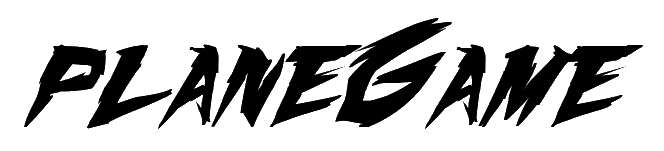
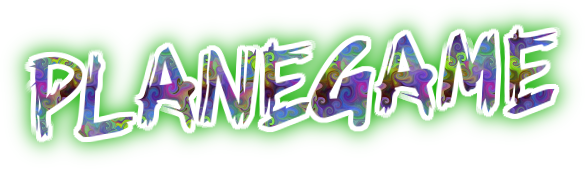
Added start and ending to the game

diff --git a/docs/js/main.js b/docs/js/main.js
@@ -1,8 +1,13 @@
-var __extends = (this && this.__extends) || function (d, b) {
-    for (var p in b) if (b.hasOwnProperty(p)) d[p] = b[p];
-    function __() { this.constructor = d; }
-    d.prototype = b === null ? Object.create(b) : (__.prototype = b.prototype, new __());
-};
+var __extends = (this && this.__extends) || (function () {
+    var extendStatics = Object.setPrototypeOf ||
+        ({ __proto__: [] } instanceof Array && function (d, b) { d.__proto__ = b; }) ||
+        function (d, b) { for (var p in b) if (b.hasOwnProperty(p)) d[p] = b[p]; };
+    return function (d, b) {
+        extendStatics(d, b);
+        function __() { this.constructor = d; }
+        d.prototype = b === null ? Object.create(b) : (__.prototype = b.prototype, new __());
+    };
+})();
 var GameObject = (function () {
     function GameObject(parent, name, width, height, x, y) {
         this.elementname = name;
@@ -26,9 +31,10 @@ var GameObject = (function () {
 var Airport = (function (_super) {
     __extends(Airport, _super);
     function Airport(name, x, y) {
-        _super.call(this, document.body, "airport", 0, 0, x, y);
-        this.stage = 0;
-        this.name = new Name(document.body, name, x + 275, y + 125);
+        var _this = _super.call(this, document.body, "airport", 0, 0, x, y) || this;
+        _this.stage = 0;
+        _this.name = new Name(document.body, name, x + 275, y + 125);
+        return _this;
     }
     Airport.prototype.upgrade = function () {
         if (this.stage != 5) {
@@ -72,9 +78,10 @@ var Airport = (function (_super) {
 var Box = (function (_super) {
     __extends(Box, _super);
     function Box(name, randomAirport) {
-        _super.call(this, document.body, "box", 49, 31, randomAirport.x + 237, randomAirport.y + 170);
-        this.randomAirport = randomAirport;
-        this.name = new Name(document.body, name, this.randomAirport.x + 250, this.randomAirport.y + 165);
+        var _this = _super.call(this, document.body, "box", 49, 31, randomAirport.x + 237, randomAirport.y + 170) || this;
+        _this.randomAirport = randomAirport;
+        _this.name = new Name(document.body, name, _this.randomAirport.x + 250, _this.randomAirport.y + 165);
+        return _this;
     }
     return Box;
 }(GameObject));
@@ -127,19 +134,25 @@ var Empty = (function () {
 }());
 var Enums;
 (function (Enums) {
+    var Keys;
     (function (Keys) {
         Keys[Keys["W"] = 87] = "W";
         Keys[Keys["A"] = 65] = "A";
         Keys[Keys["D"] = 68] = "D";
-    })(Enums.Keys || (Enums.Keys = {}));
-    var Keys = Enums.Keys;
+    })(Keys = Enums.Keys || (Enums.Keys = {}));
 })(Enums || (Enums = {}));
 var Game = (function () {
     function Game() {
         var _this = this;
         this.score = 0;
+        this.time = 60;
+        this.timeCounter = 0;
         this.airports = [];
         this.boxes = [];
+        this.scoreElement = document.createElement("score");
+        document.body.appendChild(this.scoreElement);
+        this.timeElement = document.createElement("time");
+        document.body.appendChild(this.timeElement);
         this.plane = new Plane();
         this.airports.push(new Airport("1", 2, 65));
         this.airports.push(new Airport("2", 2 + 640, 65));
@@ -161,6 +174,13 @@ var Game = (function () {
     }
     Game.prototype.gameLoop = function () {
         var _this = this;
+        this.scoreElement.innerHTML = "Score: " + this.score;
+        this.timeCounter++;
+        if (this.timeCounter >= 60) {
+            this.time--;
+            this.timeCounter = 0;
+        }
+        this.timeElement.innerHTML = "Time: " + this.time;
         this.plane.update();
         this.boxes.forEach(function (box) {
             if (Utils.collision(_this.plane, box)) {
@@ -189,7 +209,24 @@ var Game = (function () {
                 }
             }
         });
-        requestAnimationFrame(function () { return _this.gameLoop(); });
+        if (this.time <= 0) {
+            this.plane.div.remove();
+            this.boxes.forEach(function (box) {
+                box.name.div.remove();
+                box.div.remove();
+            });
+            this.airports.forEach(function (airport) {
+                airport.name.div.remove();
+                airport.div.remove();
+            });
+            this.timeElement.remove();
+            this.scoreElement.innerHTML = "Time's up!<br>" + this.scoreElement.innerHTML;
+            this.scoreElement.style.left = 'calc(100% / 2 - 100px)';
+            this.scoreElement.style.top = 'calc(100% / 2 - 50px)';
+        }
+        else {
+            requestAnimationFrame(function () { return _this.gameLoop(); });
+        }
     };
     Game.getInstance = function () {
         if (!Game.instance) {
@@ -200,39 +237,41 @@ var Game = (function () {
     return Game;
 }());
 var title;
-var button;
+var start;
 window.addEventListener("load", function () {
     title = document.createElement("title");
-    title.innerHTML = "planeGame!";
     document.body.appendChild(title);
-    button = document.createElement("button");
-    button.innerHTML = "Start!";
-    button.addEventListener("click", function () {
+    start = document.createElement("start");
+    start.addEventListener("click", function () {
         title.remove();
-        button.remove();
+        start.remove();
         Game.getInstance();
     });
-    document.body.appendChild(button);
+    document.body.appendChild(start);
+    TweenLite.to(title, 1, { x: 0, y: 250, ease: Bounce.easeOut });
+    TweenLite.to(start, 1, { x: 0, y: 500, ease: Bounce.easeOut });
 });
 var Name = (function (_super) {
     __extends(Name, _super);
     function Name(parent, name, x, y) {
-        _super.call(this, parent, "name", 20, 50, x, y);
-        this.text = name;
-        this.div.innerHTML = this.text;
+        var _this = _super.call(this, parent, "name", 20, 50, x, y) || this;
+        _this.text = name;
+        _this.div.innerHTML = _this.text;
+        return _this;
     }
     return Name;
 }(GameObject));
 var Plane = (function (_super) {
     __extends(Plane, _super);
     function Plane() {
-        _super.call(this, document.body, "plane", 39, 66, window.innerWidth / 2, window.innerHeight / 2);
-        this.speed = 5;
-        this.angle = 0;
-        this.keyState = {};
-        this.behavior = new Empty(this);
-        window.addEventListener('keydown', this.KeyDown.bind(this));
-        window.addEventListener('keyup', this.KeyUp.bind(this));
+        var _this = _super.call(this, document.body, "plane", 39, 66, window.innerWidth / 2, window.innerHeight / 2) || this;
+        _this.speed = 5;
+        _this.angle = 0;
+        _this.keyState = {};
+        _this.behavior = new Empty(_this);
+        window.addEventListener('keydown', _this.KeyDown.bind(_this));
+        window.addEventListener('keyup', _this.KeyUp.bind(_this));
+        return _this;
     }
     Plane.prototype.KeyDown = function (e) {
         this.keyState[e.keyCode || e.which] = true;

diff --git a/dev/game.ts b/dev/game.ts
@@ -2,11 +2,19 @@ class Game {
 
     private static instance: Game;
     private score: number = 0;
+    private scoreElement: HTMLElement;
+    private time: number = 60;
+    private timeCounter: number = 0;
+    private timeElement: HTMLElement;
     private plane: Plane;
     private airports: Airport[] = [];
     private boxes: Box[] = [];
 
     private constructor() {
+        this.scoreElement = document.createElement("score");
+        document.body.appendChild(this.scoreElement);
+        this.timeElement = document.createElement("time");
+        document.body.appendChild(this.timeElement);
         // Bevolk het scherm met meest efficient geplaatste vliegvelden (tile: 64x32)
         this.plane = new Plane();
         this.airports.push(new Airport("1", 2, 65));
@@ -20,15 +28,22 @@ class Game {
         this.airports.push(new Airport("9", 2 + 320, 65 + 672));
         this.airports.push(new Airport("10", 2 + 960, 65 + 672));
         let objectiveAirport = Math.floor(Math.random() * 10) + 1 + "";
-                        let spawnAirport = this.airports[Math.floor(Math.random() * this.airports.length)];
-                        while (objectiveAirport == spawnAirport.name.text) {
-                            spawnAirport = this.airports[Math.floor(Math.random() * this.airports.length)];
-                        }
-                        this.boxes.push(new Box(objectiveAirport, spawnAirport));
+        let spawnAirport = this.airports[Math.floor(Math.random() * this.airports.length)];
+        while (objectiveAirport == spawnAirport.name.text) {
+            spawnAirport = this.airports[Math.floor(Math.random() * this.airports.length)];
+        }
+        this.boxes.push(new Box(objectiveAirport, spawnAirport));
         requestAnimationFrame(() => this.gameLoop());
     }
 
     private gameLoop(): void {
+        this.scoreElement.innerHTML = "Score: " + this.score;
+        this.timeCounter++;
+        if (this.timeCounter >= 60) {
+            this.time--;
+            this.timeCounter = 0;
+        }
+        this.timeElement.innerHTML = "Time: " + this.time;
         this.plane.update();
         this.boxes.forEach(box => {
             if (Utils.collision(this.plane, box)) {
@@ -57,7 +72,23 @@ class Game {
                 }
             }
         });
-        requestAnimationFrame(() => this.gameLoop());
+        if (this.time <= 0) {
+            this.plane.div.remove();
+            this.boxes.forEach(box => {
+                box.name.div.remove();
+                box.div.remove();
+            });
+            this.airports.forEach(airport => {
+                airport.name.div.remove();
+                airport.div.remove();
+            });
+            this.timeElement.remove();
+            this.scoreElement.innerHTML = "Time's up!<br>" + this.scoreElement.innerHTML;
+            this.scoreElement.style.left = 'calc(100% / 2 - 100px)';
+            this.scoreElement.style.top = 'calc(100% / 2 - 50px)';
+        } else {
+            requestAnimationFrame(() => this.gameLoop());
+        }
     }
 
     public static getInstance(): Game {

diff --git a/docs/css/style.css b/docs/css/style.css
@@ -7,20 +7,43 @@ body {
 
 body * {
     position: absolute;
+    display: block;
     margin: 0px;
     padding: 0px;
 }
 
 title {
-    width:664px;
-    height:151px;
+    width: 585px;
+    height: 169px;
+    margin: auto;
     background-image: url('../images/title.png');
+    left: calc(100% / 2 - 290px);
 }
 
-button {
-    width:345px;
-    height:131px;
-    background-image: url('../images/button.png');
+start {
+    width: 284px;
+    height: 145px;
+    margin: auto;
+    background-image: url('../images/start.png');
+    left: calc(100% / 2 - 140px);
+}
+
+score {
+    font-family: 'Open Sans', sans-serif;
+    font-size: 50px;
+    color: white;
+    text-shadow: 3px 3px black;
+    left: 10px;
+    top: 5px;
+}
+
+time {
+    font-family: 'Open Sans', sans-serif;
+    font-size: 25px;
+    color: white;
+    text-shadow: 3px 3px black;
+    left: 10px;
+    top: 75px;
 }
 
 airport {

diff --git a/dev/main.ts b/dev/main.ts
@@ -1,18 +1,19 @@
 /// <reference path="game.ts"/>
+/// <reference path="tween.d.ts"/>
 
 var title: HTMLElement;
-var button: HTMLElement;
+var start: HTMLElement;
 
 window.addEventListener("load", function () {
     title = document.createElement("title");
-    title.innerHTML = "planeGame!";
     document.body.appendChild(title);
-    button = document.createElement("button");
-    button.innerHTML = "Start!"
-    button.addEventListener("click", function () {
+    start = document.createElement("start");
+    start.addEventListener("click", function () {
         title.remove();
-        button.remove();
+        start.remove();
         Game.getInstance();
     });
-    document.body.appendChild(button);
+    document.body.appendChild(start);
+    TweenLite.to(title, 1, { x: 0, y: 250, ease: Bounce.easeOut });
+    TweenLite.to(start, 1, { x: 0, y: 500, ease: Bounce.easeOut });
 });

diff --git a/docs/index.html b/docs/index.html
@@ -2,12 +2,13 @@
 <html>
 
 <head>
-  <title>Flomajerken</title>
+  <title>planeGame</title>
   <link href="https://fonts.googleapis.com/css?family=Open+Sans" rel="stylesheet">
   <link rel="stylesheet" type="text/css" href="css/style.css">
 </head>
 
 <body>
+  <script src="https://cdnjs.cloudflare.com/ajax/libs/gsap/1.19.1/TweenMax.min.js"></script>
   <script src='js/main.js'></script>
 </body>
 
